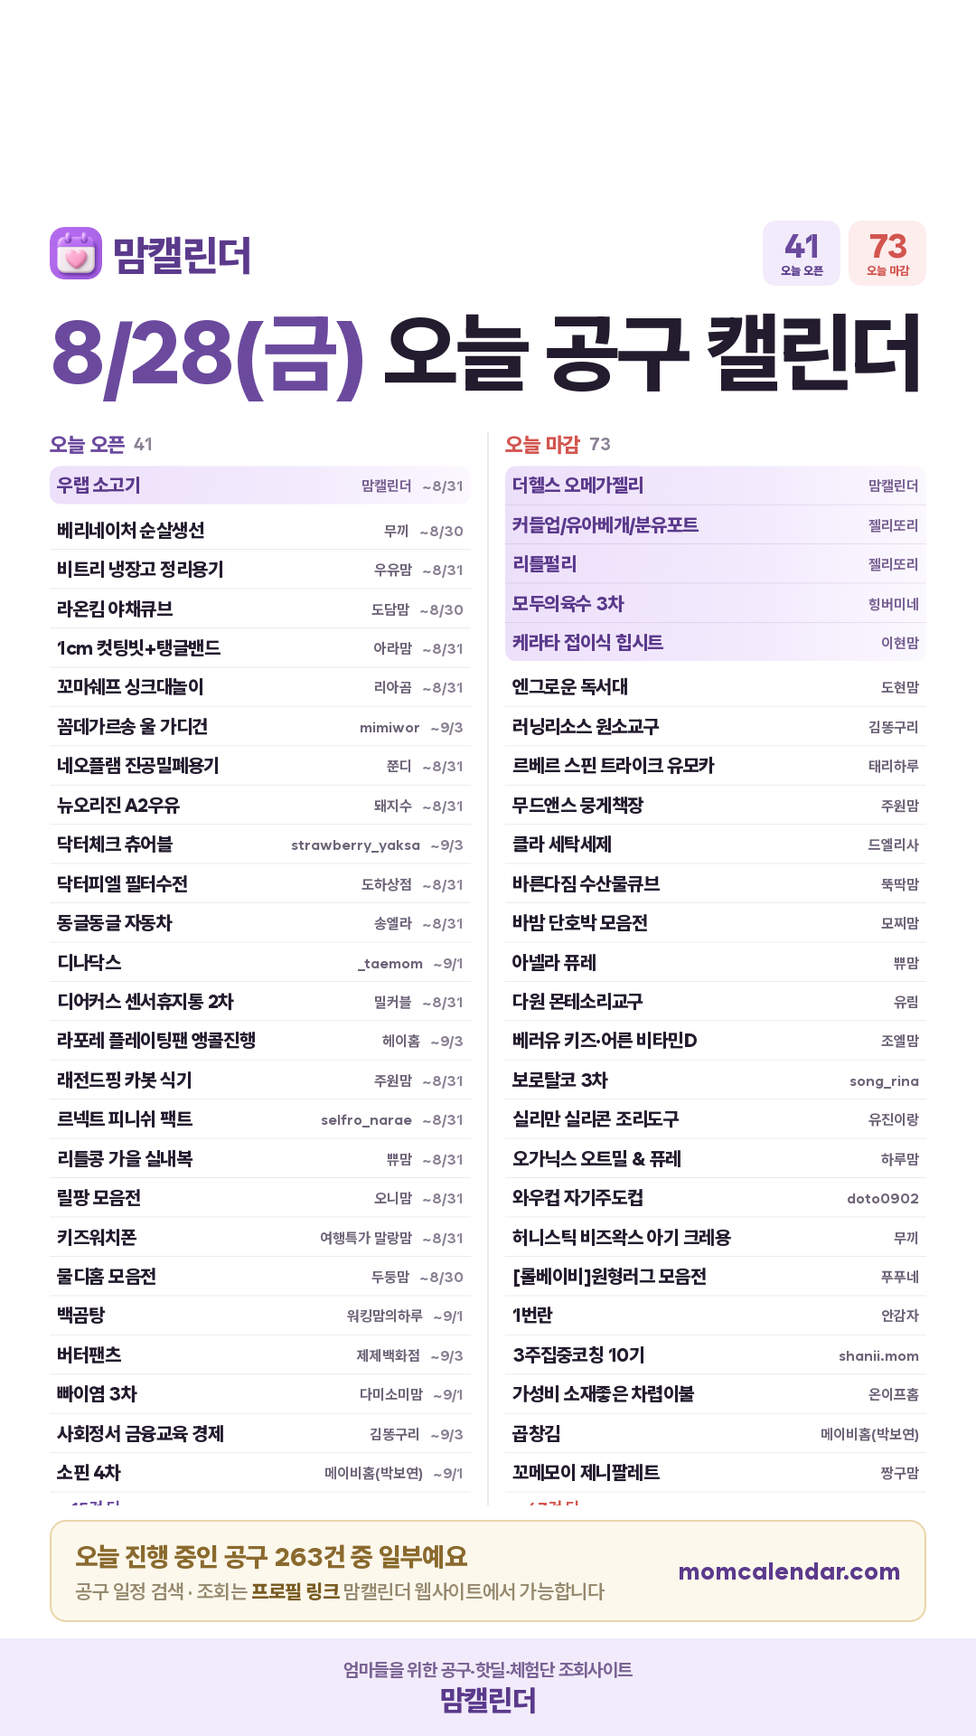
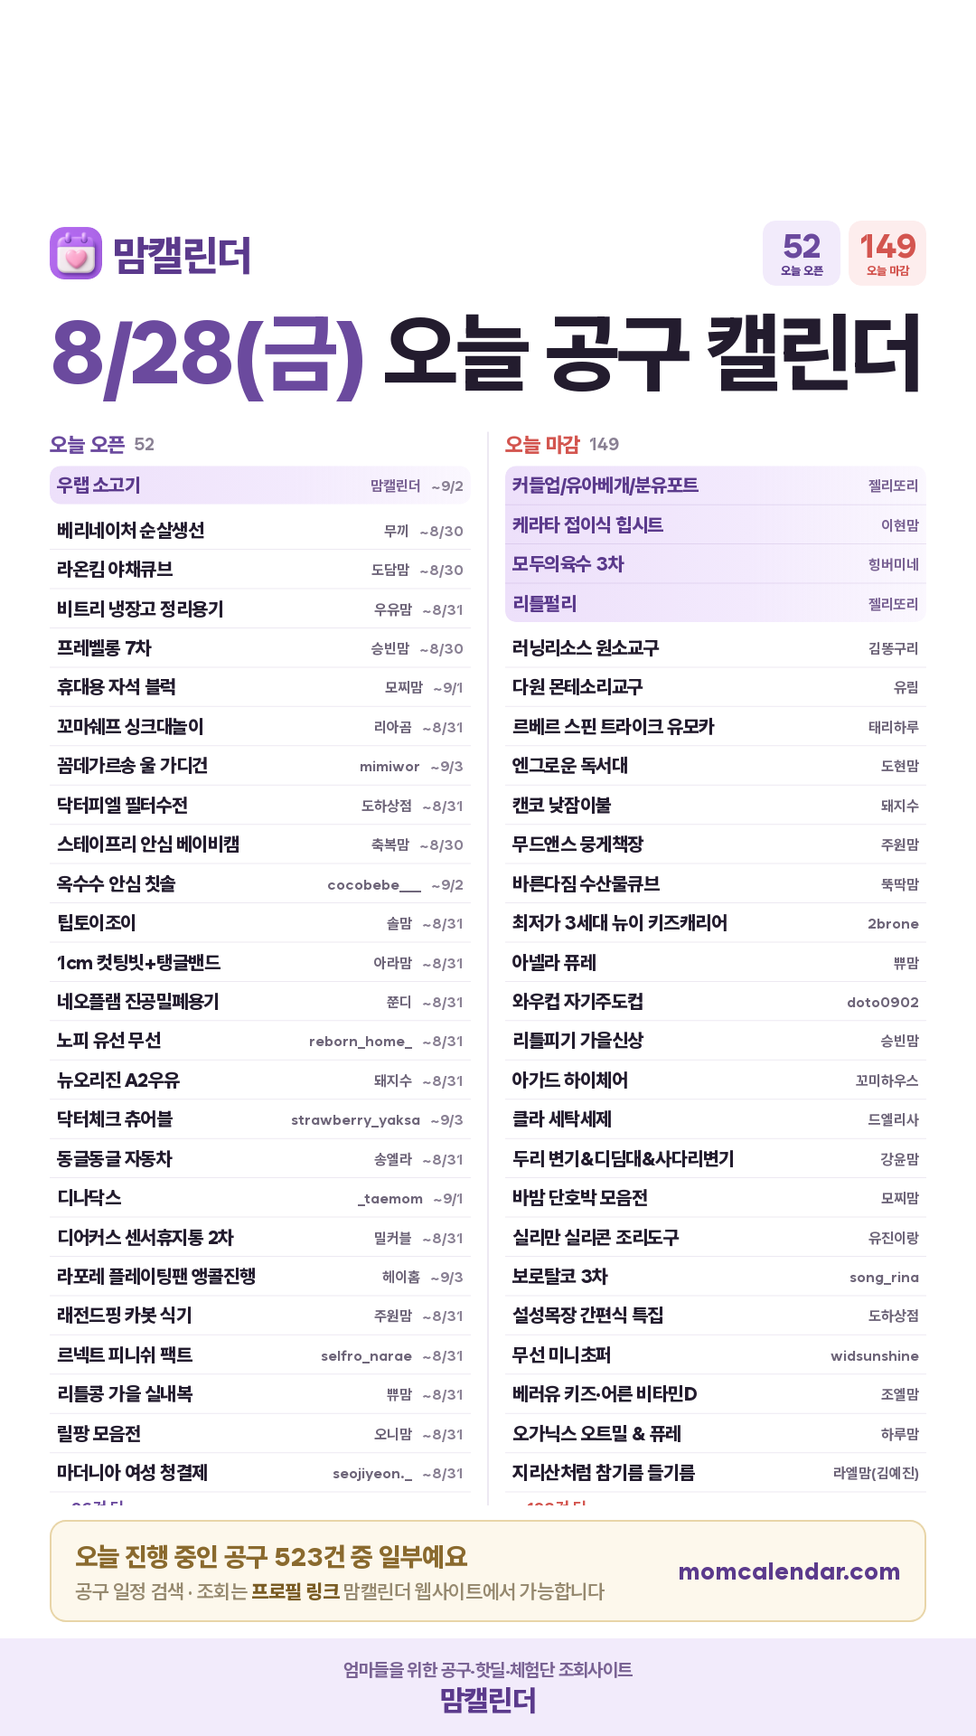
아침 인스타 카드 (2026-08-28)

diff --git a/daily/2026-08-28.html b/daily/2026-08-28.html
@@ -19,7 +19,7 @@ textarea{width:100%;height:260px;border:1px solid #E3DCEF;border-radius:10px;pad
 .todo p{font-size:12.5px;color:#6B6379;line-height:1.75;margin-top:6px}
 .todo a{color:#5B2E8C;font-weight:700}
 </style></head><body>
-<div class="hd"><div class="wrap"><h1>8월 28일(금) 인스타 카드</h1><p>오픈 41건 · 마감 73건</p></div></div>
+<div class="hd"><div class="wrap"><h1>8월 28일(금) 인스타 카드</h1><p>오픈 52건 · 마감 149건</p></div></div>
 <div class="wrap">
   
   <div class="card"><img src="./2026-08-28.png" alt="오늘 공구 카드"></div>
@@ -30,24 +30,30 @@ textarea{width:100%;height:260px;border:1px solid #E3DCEF;border-radius:10px;pad
 맘캘린더에서 공유드리는
 8월 28일(금) 오늘 공구 캘린더
 
-오픈 38건 · 마감 66건
+오픈 49건 · 마감 120건
 
 ━━━━━━━━━━━━━━
 
 💜 맘캘린더 이웃셀러
-· 우랩 소고기 — 맘캘린더 @momcal_ (~8/31)
+· 우랩 소고기 — 맘캘린더 @momcal_ (~9/2)
 
 🔓 오늘 오픈하는 공구
 · 베리네이처 닭 수산물큐브 순살생선 — 무끼 (~8/30)
-· 비트리 냉동실 냉장고 정리용기 — 우유맘 (~8/31)
 · 라온킴 야채큐브 — 도담맘 (~8/30)
-· 1cm 컷팅빗+탱글밴드 — 아라맘 (~8/31)
+· 비트리 냉동실 냉장고 정리용기 — 우유맘 (~8/31)
+· 프레벨롱 7차 — 승빈맘 (~8/30)
+· 휴대용 자석 블럭 — 모찌맘 (~9/1)
 · 꼬마쉐프 싱크대놀이 — 리아곰 (~8/31)
 · 꼼데가르송 울 가디건 — mimiwor (~9/3)
+· 닥터피엘 필터수전 — 도하상점 (~8/31)
+· 스테이프리 안심 베이비캠 — 축복맘 (~8/30)
+· 옥수수 안심 칫솔[덴티플] — cocobebe___ (~9/2)
+· 팁토이조이 — 솔맘 (~8/31)
+· 1cm 컷팅빗+탱글밴드 — 아라맘 (~8/31)
 · 네오플램 진공밀폐용기 — 쭌디 (~8/31)
+· 노피 미니후드 유선·무선 — reborn_home_ (~8/31)
 · 뉴오리진 A2우유 — 돼지수 (~8/31)
 · 닥터체크 원퍼데이 알티지 오메가3 츄어블 — strawberry_yaksa (~9/3)
-· 닥터피엘 필터수전 — 도하상점 (~8/31)
 · 동글동글 자동차 — 송엘라 (~8/31)
 · 디나닥스 — _taemom (~9/1)
 · 디어커스 센서휴지통 2차 — 밀커블 (~8/31)
@@ -56,57 +62,50 @@ textarea{width:100%;height:260px;border:1px solid #E3DCEF;border-radius:10px;pad
 · 르넥트 피니쉬 팩트 — selfro_narae (~8/31)
 · 리틀콩 가을 실내복 — 쀼맘 (~8/31)
 · 릴팡 모음전 — 오니맘 (~8/31)
+· 마더니아 여성 청결제 — seojiyeon._ (~8/31)
 · 마이퍼스트 키즈워치폰 — 여행특가 말랑맘 (~8/31)
 · 물디홈 모음전 — 두둥맘 (~8/30)
+· 미닉스 MAX·소핀 — 아무르제이 (~8/31)
+· 바디드라이어 — 비쥬봉봉 (~8/31)
 · 백곰탕 — 워킹맘의하루 (~9/1)
 · 버터팬츠 — 제제백화점 (~9/3)
 · 빠이염 3차 — 다미소미맘 (~9/1)
-· 사회정서 금융교육 경제 — 김똥구리 (~9/3)
-· 소핀 4차 — 메이비홈(박보연) (~9/1)
-· 스테이프리 안심 베이비캠 — 축복맘 (~8/30)
-· 알루아 와인거치대 — 러브율홈 (~8/31)
-· 엘푸엘레 올리브유 — 부끄 (~9/1)
-· 옥수수 안심 칫솔[덴티플] — cocobebe___ (~9/2)
-· 이브홈 슈로스바 — 우유마켓 (~9/1)
-· 주방신박템1 무선 초퍼 — 미르홈 (~9/3)
-· 테이블 보호필름 6차 — ro_jun_home (~9/2)
-…나머지 5건은 맘캘린더 사이트에서 보실 수 있어요
+…나머지 16건은 맘캘린더 사이트에서 보실 수 있어요
 
 ⏰ 오늘 마감하는 공구
-· 더헬스 오메가젤리 — 맘캘린더 @momcal_
 · 라비킷 커들업/유아베개/분유포트 — 젤리또리 @jelly_ddori
-· 리틀펄리 — 젤리또리 @jelly_ddori
-· 모두의육수 3차 — 힝버미네 @heeng_beomi
 · 케라타 접이식 힙시트 — 이현맘 @ihyeon_mom_251125
-· 엔그로운 독서대 — 도현맘
+· 모두의육수 3차 — 힝버미네 @heeng_beomi
+· 리틀펄리 — 젤리또리 @jelly_ddori
 · 러닝리소스 원소교구 — 김똥구리
-· 르베르 스핀 트라이크 유모카 — 태리하루
-· 무드앤스 뭉게책장 — 주원맘
-· 클라 세탁세제 — 드엘리사
-· 바른다짐 수산물큐브 — 뚝딱맘
-· 바밤 단호박 모음전 — 모찌맘
-· 아넬라 퓨레 — 쀼맘
 · 다원 몬테소리교구 — 유림
-· 베러유 키즈·어른 비타민D — 조엘맘
-· 보로탈코 3차 — song_rina
-· 실리만 플래티넘 실리콘 조리도구 — 유진이랑
-· 오가닉스 오트밀 &amp; 퓨레 — 하루맘
+· 르베르 스핀 트라이크 유모카 — 태리하루
+· 엔그로운 독서대 — 도현맘
+· 캔코 낮잠이불 — 돼지수
+· 무드앤스 뭉게책장 — 주원맘
+· 바른다짐 수산물큐브 — 뚝딱맘
+· 최저가 3세대 뉴이 키즈캐리어 — 2brone
+· 아넬라 퓨레 — 쀼맘
 · 와우컵 자기주도컵 — doto0902
+· 리틀피기 가을신상 — 승빈맘
+· 아가드 하이체어 — 꼬미하우스
+· 클라 세탁세제 — 드엘리사
+· 두리 변기&amp;디딤대&amp;사다리변기 — 강윤맘
+· 바밤 단호박 모음전 — 모찌맘
+· 실리만 플래티넘 실리콘 조리도구 — 유진이랑
+· 보로탈코 3차 — song_rina
+· 설성목장 간편식 특집 — 도하상점
+· 무선 미니초퍼 — widsunshine
+· 베러유 키즈·어른 비타민D — 조엘맘
+· 오가닉스 오트밀 &amp; 퓨레 — 하루맘
+· 지리산처럼 국산 저온압착 참기름·들기름 — 라엘맘(김예진)
 · 허니스틱 비즈왁스 아기 크레용 — 무끼
 · [롤베이비]원형러그 모음전 — 푸푸네
 · 1번란 — 안감자
+· 29 [chinjul3X 담치락] 담치락 진공 밀폐용기 : 담치락 공식몰 — 친절마켓
+· 2in1 연필깎이 청소기 — 연두무아
 · 3주집중코칭 슬립메이트 10기 — shanii.mom
-· 가성비 소재좋은 차렵이불 — 온이프홈
-· 곱창김 — 메이비홈(박보연)
-· 꼬메모이 제니팔레트 — 짱구맘
-· 노르딕슬립 역대급 사은품전 — 로라도라홈
-· 닌자 블렌드 보스 — 윤우가자라는집
-· 닥터파이토 덴티백 아이 구강유산균 — 나니맘
-· 데일리라이크 가을신상 — 뭉실맘
-· 르넥트 보송하게 밀착! 피니쉬 팩트 — selfro_narae
-· 리얼더마 — 유한나
-· 리틀피기 가을신상 — 승빈맘
-…나머지 33건은 맘캘린더 사이트에서 보실 수 있어요
+…나머지 88건은 맘캘린더 사이트에서 보실 수 있어요
 
 ━━━━━━━━━━━━━━
 
@@ -119,12 +118,12 @@ textarea{width:100%;height:260px;border:1px solid #E3DCEF;border-radius:10px;pad
 ⚠ 공구 일정은 판매자 사정에 따라 변경되거나 조기 마감될 수 있어요. 구매 전에 해당 셀러 계정에서 한 번 더 확인해 주세요.
 
 #맘캘린더 #공구일정 #육아공구 #육아용품 #책육아 #놀잇감 #공구오픈 #공구모음 #오늘의공구 #공구추천 #육아맘 #맘스타그램</textarea>
-    <div class="meta">2186자 / 2200자 · 오픈 32/37 · 마감 33/66</div>
+    <div class="meta">2198자 / 2200자 · 오픈 32/48 · 마감 32/120</div>
     <button class="btn btn2" onclick="cp('cap','캡션')">캡션 복사</button>
   </div>
   <div class="card">
     <div class="meta" style="margin:0 0 8px;font-weight:800;color:#5B2E8C">네이버 블로그용 (blog.naver.com/momcal) — 수정해서 쓰셔도 돼요</div>
-    <textarea id="btitle" style="height:54px">8월 28일(금) 오늘 오픈 인스타 공동구매 일정 총정리 | 디나닥스·알루아·주방신박템1·닥터체크·이브홈·네오플램·닥터피엘·디어커스 공구 외</textarea>
+    <textarea id="btitle" style="height:54px">8월 28일(금) 육아템 인스타 공구 오픈 일정 총정리 | 노피·디나닥스·미닉스·바디드라이어 공구 외</textarea>
     <button class="btn btn2" onclick="cp('btitle','블로그 제목')">블로그 제목 복사</button>
     <textarea id="bbody" style="margin-top:9px">맘캘린더 채널 한눈에
 · 전체 공구 일정 실시간 검색 → https://momcalendar.com
@@ -137,12 +136,10 @@ textarea{width:100%;height:260px;border:1px solid #E3DCEF;border-radius:10px;pad
 · 카톡 수다방 → https://open.kakao.com/o/gr2kJhCh
 ─────────────
 
-8월 28일(금), 오늘 새로 오픈하는 인스타 공구일정 41건을 카테고리별로 정리했어요.
-오늘 마감되는 공구도 73건 있으니 놓치지 마세요.
+8월 28일(금), 오늘 새로 오픈하는 인스타 공구일정 52건을 카테고리별로 정리했어요.
+오늘 마감되는 공구도 151건 있으니 놓치지 마세요.
 
-
-
-■ 오늘 오픈하는 공구 41건
+■ 오늘 오픈하는 공구 52건
 
 [육아]
 · 1cm 컷팅빗+탱글밴드 — 아라맘 (~8/31 마감)
@@ -155,17 +152,25 @@ textarea{width:100%;height:260px;border:1px solid #E3DCEF;border-radius:10px;pad
 · 바이탈플랜트 롤팬 — 송엘라 (~8/31 마감)
 · 베리네이처 닭 수산물큐브 순살생선 — 무끼 (~8/30 마감)
 · 사회정서 금융교육 경제 — 김똥구리 (~9/3 마감)
+· 세이펜&amp;세이톡 — 애프리 (~8/31 마감)
 · 스테이프리 안심 베이비캠 — 축복맘 (~8/30 마감)
+· 아가드 독서대 — 유림 (~8/30 마감)
+· 유팡 시그니처2 플러스 UV소독기 — 라뷰베어 (~8/31 마감)
+· 제트피규어 — 뽀민맘 (~8/31 마감)
+· 팁토이조이 — 솔맘 (~8/31 마감)
 · 휴대용 자석 블럭 — 모찌맘 (~9/1 마감)
 
 [리빙]
+· AMT — ryuniiii (~8/31 마감)
 · 네오플램 진공밀폐용기 — 쭌디 (~8/31 마감)
 · 닥터피엘 필터수전 — 도하상점 (~8/31 마감)
 · 디어커스 센서휴지통 2차 — 밀커블 (~8/31 마감)
 · 라포레 플레이팅팬 앵콜진행 — 헤이홈 (~9/3 마감)
 · 비트리 냉동실 냉장고 정리용기 — 우유맘 (~8/31 마감)
+· 빠이염 3차 — 다미소미맘 (~9/1 마감)
 · 소핀 4차 — 메이비홈(박보연) (~9/1 마감)
 · 옥수수 안심 칫솔[덴티플] — @cocobebe___ (~9/2 마감)
+· 이지앤프리 — 서노 (~8/31 마감)
 · 테이블 보호필름 6차 — ro_jun_home (~9/2 마감)
 · 퓨리톡스 4차 — 마이어홈 (~9/1 마감)
 
@@ -176,7 +181,7 @@ textarea{width:100%;height:260px;border:1px solid #E3DCEF;border-radius:10px;pad
 · 베리네이처 한우/돼지/티백육수 — 로로맘 (~8/31 마감)
 · 사토노유키 실큰두부 — 쭌디 (~8/31 마감)
 · 엘푸엘레 올리브유 — 부끄 (~9/1 마감)
-· 우랩 소고기 — 맘캘린더 (~8/31 마감)
+· 우랩 소고기 — 맘캘린더 (~9/2 마감)
 · 프레벨롱 7차 — 승빈맘 (~8/30 마감)
 · 하드렐 마누카 꿀 — 유한나 (~9/1 마감)
 
@@ -186,10 +191,14 @@ textarea{width:100%;height:260px;border:1px solid #E3DCEF;border-radius:10px;pad
 
 [뷰티]
 · 르넥트 피니쉬 팩트 — selfro_narae (~8/31 마감)
+· 마더니아 여성 청결제 — seojiyeon._ (~8/31 마감)
 · 풋네스 풋케어3종 24:00 — jangmini (~8/31 마감)
 
 [가전]
+· 노피 미니후드 유선·무선 — reborn_home_ (~8/31 마감)
 · 디나닥스 — _taemom (~9/1 마감)
+· 미닉스 MAX·소핀 — 아무르제이 (~8/31 마감)
+· 바디드라이어 — 비쥬봉봉 (~8/31 마감)
 · 알루아 와인거치대 — 러브율홈 (~8/31 마감)
 · 주방신박템1 무선 초퍼 — 미르홈 (~9/3 마감)
 
@@ -200,94 +209,169 @@ textarea{width:100%;height:260px;border:1px solid #E3DCEF;border-radius:10px;pad
 [여행]
 · 마이퍼스트 키즈워치폰 — 여행특가 말랑맘 (~8/31 마감)
 
-[기타]
-· 빠이염 3차 — 다미소미맘 (~9/1 마감)
-
-■ 오늘 마감하는 공구 73건
+■ 오늘 마감하는 공구 151건
 · [롤베이비]원형러그 모음전 — 푸푸네
+· 1 물티슈 — 도현맘
 · 1번란 — 안감자
+· 29 [chinjul3X 담치락] 담치락 진공 밀폐용기 : 담치락 공식몰 — 친절마켓
+· 2in1 연필깎이 청소기 — 연두무아
 · 3주집중코칭 슬립메이트 10기 — shanii.mom
 · DOWESEE 청바지 2종 — 감각제이
 · NEW 필오프 글로우 팩 — yoon__bling
 · NEW명작왕(전래/명작) — 도하상점
+· soon 아티바바 장난감 2차 — 일벙부부
 · 가성비 소재좋은 차렵이불 — 온이프홈
+· 가을운동화 모음전 — 또후니맘
 · 곱창김 — 메이비홈(박보연)
+· 국내생산 소가죽 원핸드 3단 미니 반지갑 — 밍융맘
+· 길쭉담이 수납장 — seojiyeon._
 · 꼬메모이 제니팔레트 — 짱구맘
+· 난각번호 1번 청정맑은란 — 
 · 노르딕슬립 역대급 사은품전 — 로라도라홈
+· 노리터보드 — 오프유
+· 노부영 위씽 스팟 — 해모비
+· 누린내 없는 목초우 기버터 — dongu0929
 · 닌자 블렌드 보스 — 윤우가자라는집
 · 다원 몬테소리교구 — 유림
+· 다원몬테소리 토들러 — 리미네
 · 닥터파이토 덴티백 아이 구강유산균 — 나니맘
-· 더헬스 오메가젤리 — 맘캘린더
 · 데일리라이크 가을신상 — 뭉실맘
+· 도스 칫솔 — 하하네
+· 두두그림자 극장 무빙 — 또비앙
+· 두리 변기&amp;디딤대&amp;사다리변기 — 강윤맘
 · 라비킷 커들업/유아베개/분유포트 — 젤리또리
+· 라이녹스 에어드라이기 — laun_kr
+· 러닝리소스 보드게임 — joneyfam
 · 러닝리소스 원소교구 — 김똥구리
+· 룰루맘 상온간식 — 
+· 룰루맘 원물간식 — 츄아맘
 · 르넥트 보송하게 밀착! 피니쉬 팩트 — selfro_narae
 · 르베르 스핀 트라이크 유모카 — 태리하루
+· 리솜 스플라스 덕산 — 한브로
 · 리얼더마 — 유한나
 · 리틀펄리 — 젤리또리
 · 리틀피기 가을신상 — 승빈맘
+· 마이크로 미니 투고 발판 — 이니맘
 · 마켓올슨 17차 — simply_recipe
 · 맘마존 끝판왕, 나리몽 밀크박스 (2차) — 다니맘
+· 맥킹덤 맥타일즈 모음전 — 이현찰퐁맘
+· 멜리사앤더그 교구&amp;와우 — 
 · 모두의육수 3차 — 힝버미네
 · 무드앤스 뭉게책장 — 주원맘
+· 무선 미니초퍼 — widsunshine
+· 무선 침구청소기 — gamgam_home
+· 뮤이 — 애플맘
 · 미니 반지갑 — 제제백화점
+· 미닉스 음식물처리기 — 나도살림
+· 미미뻥 프리미엄 뻥튀기 — 월간서숲
+· 밀크마일 FW 시즌 — 이동아
 · 밀크베이비 F/W 신상 상하복 — kelley_mom_dad
 · 바른다짐 수산물큐브 — 뚝딱맘
 · 바른생활 카트 — 율이네
 · 바밤 단호박 모음전 — 모찌맘
 · 바야 와일드트릿 — 0909iii09
+· 바퀜트리쳐도마 — onesalim_
+· 버드시아 유아세면대 — todam_th
+· 베딩카페 앞치마 — 우아맘
 · 베라수 황후보감 — 태브로맘
+· 베러유 비타민 스프레이 — 
 · 베러유 키즈·어른 비타민D — 조엘맘
+· 베베데코 낮잠이불 — 채쓰맘
 · 베어블리 자석레일 — 토비맘
+· 별해든 소고기•한돈 떡갈비 11차 — 태규맘
 · 보로탈코 3차 — song_rina
+· 보림 생활습관 그림책 4종 — 
+· 브러쉬업 칫솔살균기 — 뮤즈마켓
+· 비앙스 회전책장 × CJ 최대혜택 — jenny__maman
+· 비포락토 키즈 유산균 — jjeung_s2
 · 빠이염 — 우동맘
 · 뽀로로 책상·의자 — 주원맘
+· 뽀로로문짝 — 꿀빵이네
+· 삼천리자전거 — 지후맘
+· 서울랜드 종일권 — 쪼기
 · 설성목장 간편식 특집 — 도하상점
+· 설성목장 육포&amp;곰탕&amp;소스 — 
 · 세라일론 클래식 수딩밤 립크림 — 깎언니
+· 소보루 한복 — 둔둔맘
 · 소중한 습관 — 도현맘
 · 수학도둑 — master_yewon
+· 슈라모드 운동화 모음전 — 
 · 스마트 디지털 액자 — sisimomhome
+· 스텝케어 멜리니 — 다겨미네
+· 시매쓰 1031·빨강·상위권 골라담기 — 별주니맘
 · 실리만 플래티넘 실리콘 조리도구 — 유진이랑
 · 쓱선·톤선크림 — ssun__flow
+· 아가31도 — 쓰리유홈
+· 아가드 부스터 2종 — 사랑이맘
 · 아가드 하이체어 — 꼬미하우스
 · 아넬라 퓨레 — 쀼맘
+· 아띠빠스 — y0una
+· 아이언츄 온가족 철분제 — andar_ar_
 · 아티바바 실리콘 오징어블럭 — 뚝딱맘
 · 엔그로운 독서대 — 도현맘
+· 엔젤앤비 역류방지쿠션&amp;두상베개&amp;트립트랩 뉴본커버 — 
+· 연세 세브란스 a2우유 — 유안맘마
 · 오가닉스 오트밀 &amp; 퓨레 — 하루맘
 · 오징어블록 — 뚝딱맘
 · 와우컵 자기주도컵 — doto0902
 · 왕타칫솔 — salim_jopd
+· 욕실 샤워볼걸이 스텐 흡착식 후크, 무광실버, 2개 — ro_jun_home
 · 욕실용품 꿀템 모음전 — 온이프홈
 · 유기농 케일 스틱 — plie_maden
 · 유기농 파스타 &amp; 파스타소스 — son.mom_recipe
+· 유이앤루이 아기식판 — 
+· 일프로 가을 신상 — 나율맘
+· 임자네 떡볶이 — 믿쓰릴리맘
+· 잼잼북 — 뭉릉도원이네
 · 제니퍼룸 고데기 — oliviahome
+· 주니 보냉파우치 — 
+· 주니 자기주도 물컵&amp;스텐컵 — 
 · 주니 컵 베스트 모음 — 축복맘
 · 지리산처럼 국산 저온압착 참기름·들기름 — 라엘맘(김예진)
 · 지켜당 가마솥 밥맛 저당밥솥 — 츄미살림
+· 진맛김 무조미라인 — jhkgirl12
+· 차앤맘 — yuni__yaksa
+· 척척연구소 TV 보호기 — 라리맘
+· 첫 정서교육 동화 어떡해요 — woni_may
+· 촉촉한 닭가슴살 — napool_napool
 · 최저가 3세대 뉴이 키즈캐리어 — 2brone
+· 캐논 프린터기 — 샤인맘
 · 캔코 낮잠이불 — 돼지수
 · 커피머신 — 다다맘
 · 케라타 접이식 힙시트 — 이현맘
+· 코리의 생활동화 — 뽀물맘
+· 큐브링·오브룸 초미니카메라 — 녕이네
 · 클라 세탁세제 — 드엘리사
 · 클래딘 멀티쿠커 롤링팟 — 다누맘스윗홈
+· 킨즈 몬테소리북 — 아웅맘
+· 킨토 텀블러 — 쮸떠맘
 · 테팔 엑스클린7 무선 진공청소기 — 오꼬베
+· 토도영어 &amp; 토도한글 — 핫세맘
+· 토이앤플레이 공룡피규어&amp;모래놀이 — 
 · 티니핑 워크북💛New 고래보석 도감💛20종 모음전 — 건이맘
+· 퍼프비비&amp;파우쿠션 — 원더아나
+· 풍심당 — 라엘맘(김예진)
 · 퓨리톡스 세정티슈 — 블라제이
+· 프레벨롱 유기농 요거트 — 서노
+· 프로쉬 세제 — 
+· 프로쉬 주방·욕실 청소 골라담기 — 카롱맘
 · 하나투어 울릉도 독도 여행 패키지 — ummasae_home
 · 하이파이브 사회정서 — ming_9.3
 · 허니스틱 비즈왁스 아기 크레용 — 무끼
+· 헤이그린스 — love__you_jh
+· 헤이그린스 — love_you_jh
 · 헤이홈 단독 소파테이블 첫 런칭 — 헤이홈
 
-■ 오늘의 브랜드: 디나닥스
-· 디나닥스 공구는 인스타 셀러들이 기간을 정해 여는 공동구매예요. 최근에는 _taemom, 요블리, ranshome_ 님이 진행했어요.
+■ 오늘의 브랜드: 노피
+· 노피 공구는 인스타 셀러들이 기간을 정해 여는 공동구매예요. 최근에는 ___shhjin, reborn_home_, 유짱 님이 진행했어요.
 · 가격은 오픈일에 셀러 계정 공지로 공개돼요. 같은 제품이라도 셀러·구성에 따라 조금씩 달라서, 공지에서 확인하는 게 가장 정확해요.
-· 이번에 놓쳤다면 너무 아쉬워하지 마세요. 디나닥스 공구는 보통 일정 간격을 두고 다시 열려요. 전체 일정은 여기서 → https://momcalendar.com
+· 이번에 놓쳤다면 너무 아쉬워하지 마세요. 노피 공구는 보통 일정 간격을 두고 다시 열려요. 전체 일정은 여기서 → https://momcalendar.com
 
 ※ 공구 일정은 판매자 사정에 따라 변경되거나 조기 마감될 수 있어요. 구매 전에 해당 셀러 계정에서 한 번 더 확인해 주세요.
 
-#공구일정 #인스타공구 #인스타공구일정 #공동구매 #오늘의공구 #육아공구 #공구모음 #디나닥스공구 #알루아공구 #주방신박템1공구 #닥터체크공구 #이브홈공구 #네오플램공구 #닥터피엘공구 #디어커스공구</textarea>
+#공구일정 #인스타공구 #인스타공구일정 #공동구매 #오늘의공구 #육아공구 #육아템 #공구모음 #노피공구 #디나닥스공구 #미닉스공구 #바디드라이어공구 #알루아공구 #주방신박템1공구 #닥터체크공구 #이브홈공구</textarea>
     <button class="btn" onclick="cp('bbody','블로그 본문 전체')">블로그 본문 전체 복사 (태그 포함)</button>
-    <div class="meta">순서: 사진 저장 → 블로그 앱 글쓰기 → 제목 붙여넣기 → 본문 붙여넣기 → (여기에 카드 사진) 자리에 사진 → 발행. 끝의 #태그들은 자동으로 태그가 돼요</div>
+    <div class="meta">순서: 사진 저장 → 블로그 앱 글쓰기 → 제목 붙여넣기 → 본문 붙여넣기 → 본문 맨 위에 사진 추가 → 발행. 끝의 #태그들은 자동으로 태그가 돼요</div>
   </div>
 </div>
 <script>

diff --git a/daily/index.html b/daily/index.html
@@ -1,1 +1,1 @@
-<!DOCTYPE html><meta charset="UTF-8"><meta http-equiv="refresh" content="0;url=./2026-08-27.html">
+<!DOCTYPE html><meta charset="UTF-8"><meta http-equiv="refresh" content="0;url=./2026-08-28.html">
